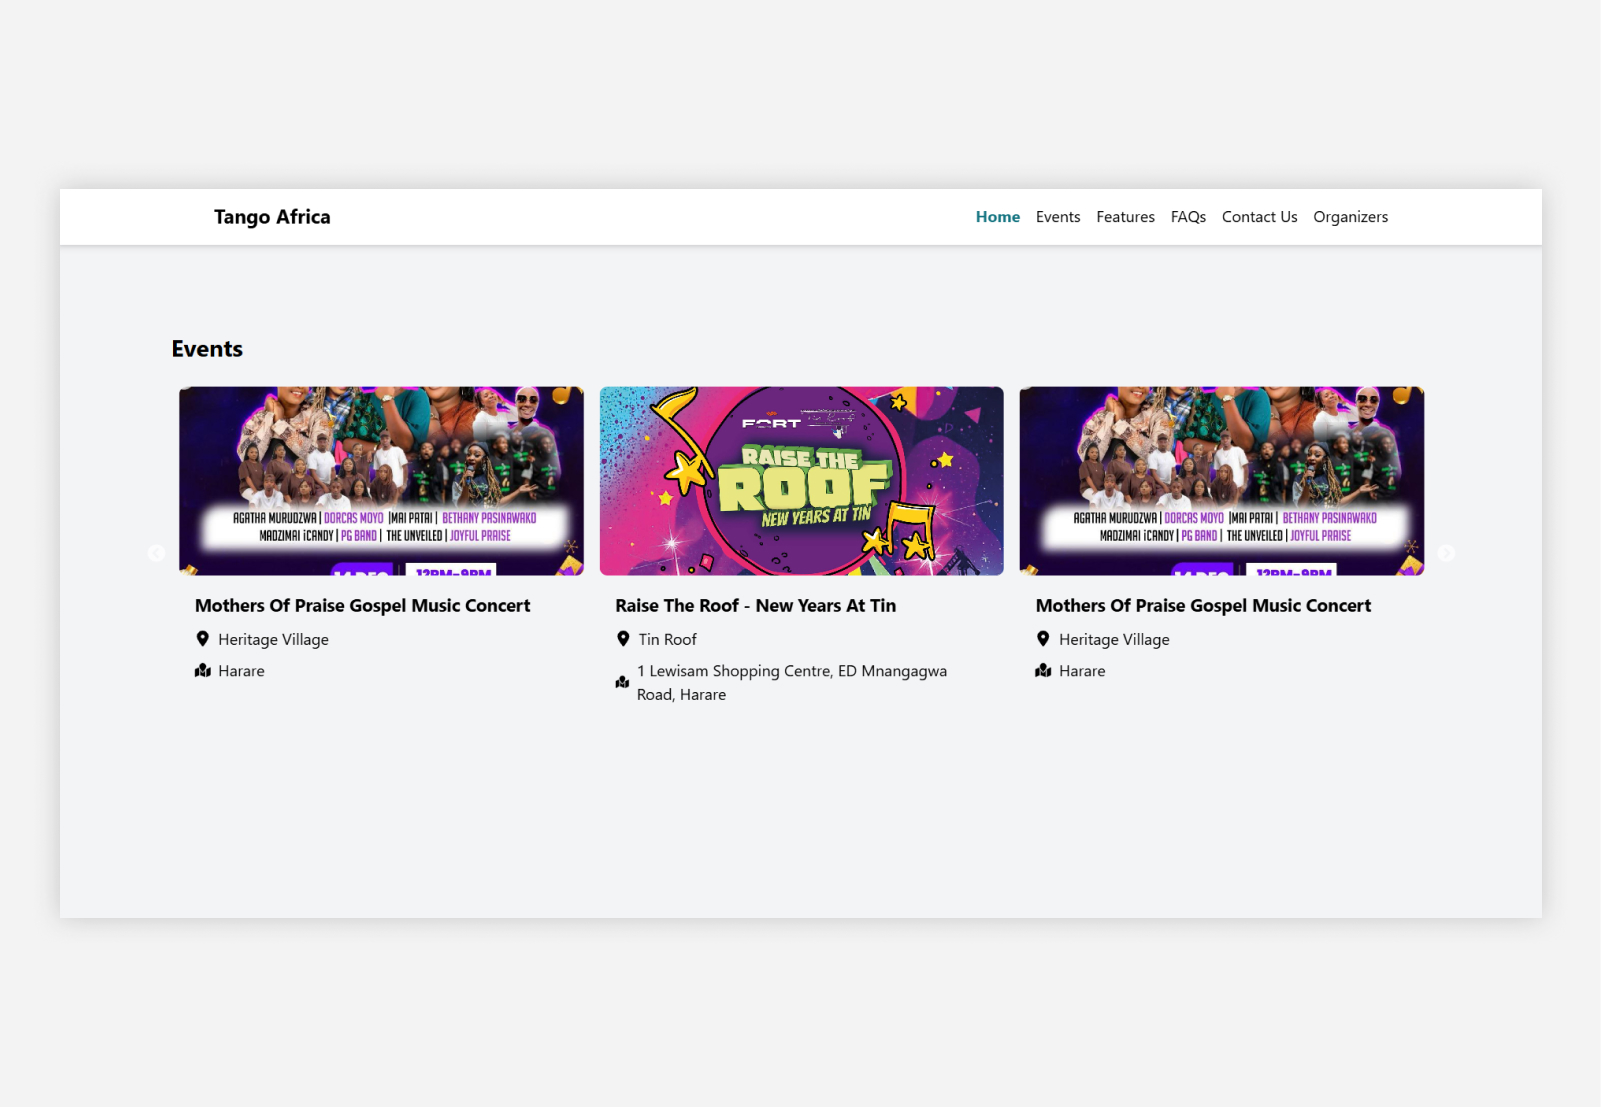
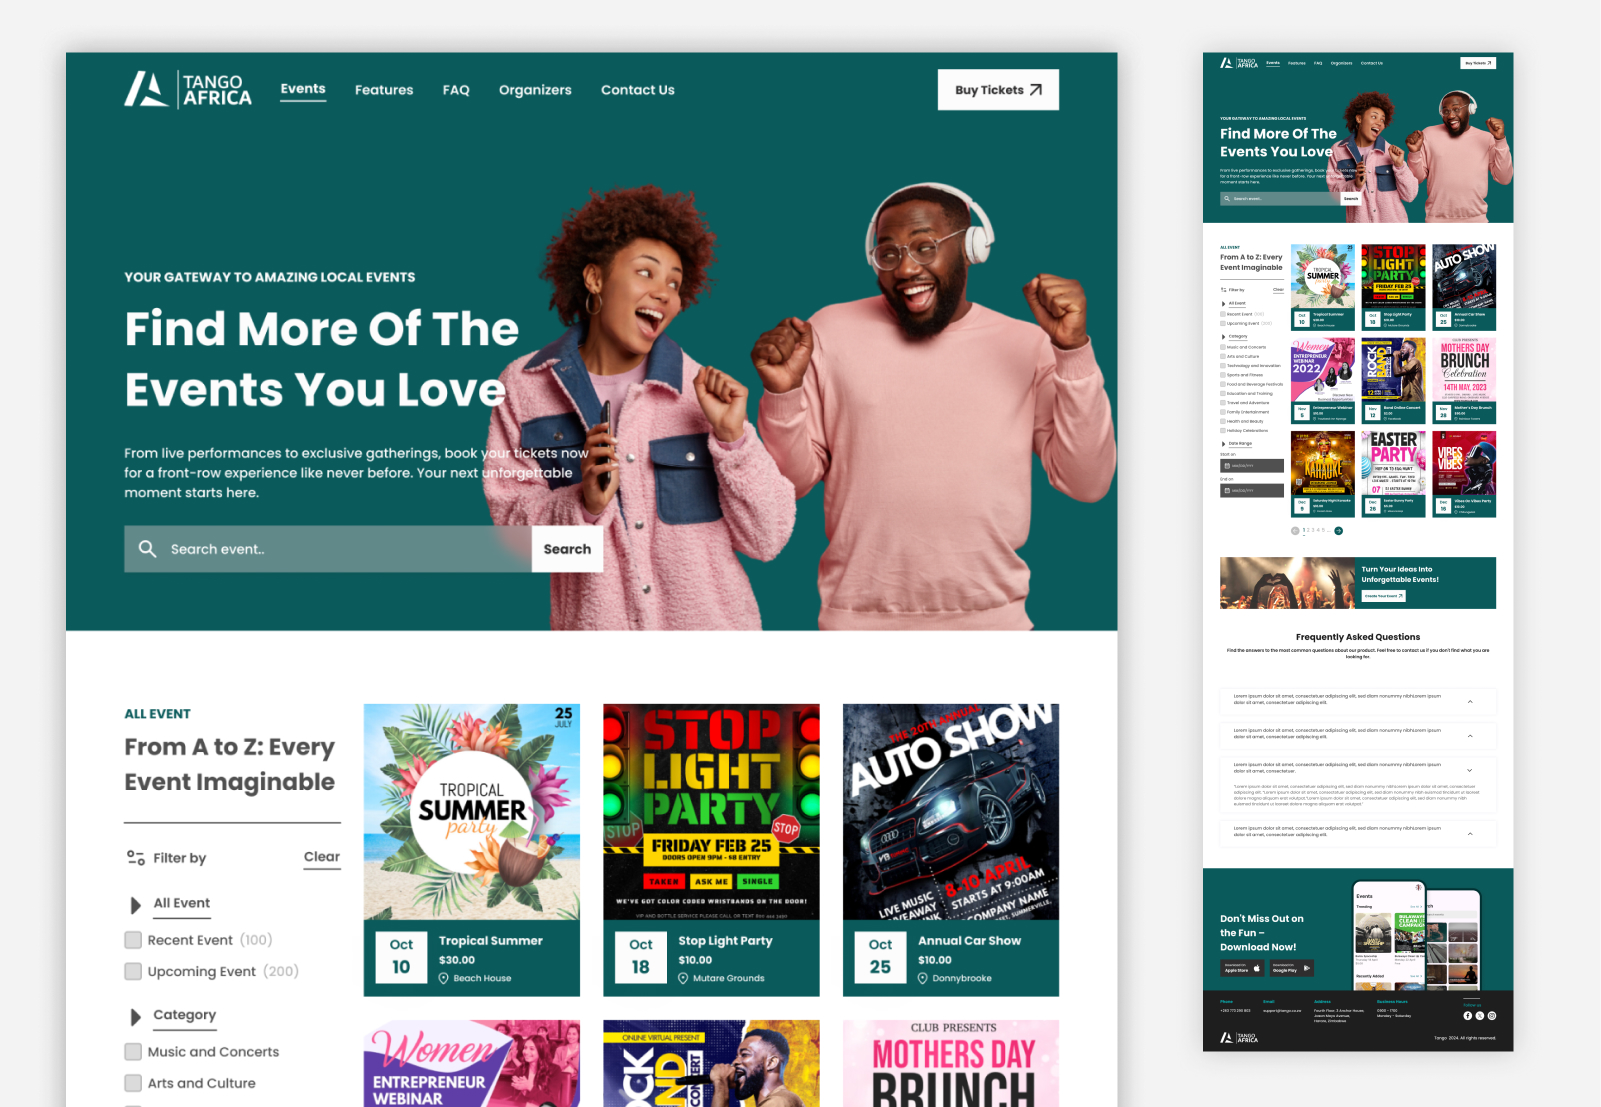
image updates

diff --git a/src/components/Casestudies/Casestudy/Problem.jsx b/src/components/Casestudies/Casestudy/Problem.jsx
@@ -23,18 +23,24 @@ const Problem = () => {
   return (
     <div className="flex flex-col items-center max-w-7xl mx-auto px-5">
       {/* Image Section */}
-      <div className="flex flex-col sm:flex-row sm:space-x-4 space-y-4 sm:space-y-0 pt-10 lg:pt-32">
+      <div className="flex flex-col sm:flex-row sm:space-x-4 space-y-4 sm:space-y-0 pt-10 lg:pt-32 w-full">
         {problem.images.map((image, index) => {
           // Map JSON image filename to imported image
           const imageSrc = imageMap[image.src] || image.src; // Fallback to the original src if no mapping is found
 
+          const heading = index === 0 ? "Before" : "After";
+
           return (
-            <img
-              key={index}
-              src={imageSrc}
-              alt={image.alt}
-              className="w-full sm:w-1/2"
-            />
+            <div key={index} className="w-full sm:w-1/2">
+              <div className="px-3">
+                <div className="lg:text-lg font-medium uppercase tracking-wider  mb-2">{heading}</div>
+              </div>
+              <img
+                src={imageSrc}
+                alt={image.alt}
+                className="w-full"
+              />
+            </div>
           );
         })}
       </div>

diff --git a/src/components/Casestudies/Casestudy2/Problem.jsx b/src/components/Casestudies/Casestudy2/Problem.jsx
@@ -23,18 +23,24 @@ const Problem = () => {
   return (
     <div className="flex flex-col items-center max-w-7xl mx-auto px-5">
       {/* Image Section */}
-      <div className="flex flex-col sm:flex-row sm:space-x-4 space-y-4 sm:space-y-0 pt-10 lg:pt-32">
+      <div className="flex flex-col sm:flex-row sm:space-x-4 space-y-4 sm:space-y-0 pt-10 lg:pt-32 w-full">
         {problem.images.map((image, index) => {
           // Map JSON image filename to imported image
           const imageSrc = imageMap[image.src] || image.src; // Fallback to the original src if no mapping is found
 
+          const heading = index === 0 ? "Before" : "After";
+
           return (
-            <img
-              key={index}
-              src={imageSrc}
-              alt={image.alt}
-              className="w-full sm:w-1/2"
-            />
+            <div key={index} className="w-full sm:w-1/2">
+              <div className="px-3">
+                <div className="lg:text-lg font-medium uppercase tracking-wider  mb-2">{heading}</div>
+              </div>
+              <img
+                src={imageSrc}
+                alt={image.alt}
+                className="w-full"
+              />
+            </div>
           );
         })}
       </div>
